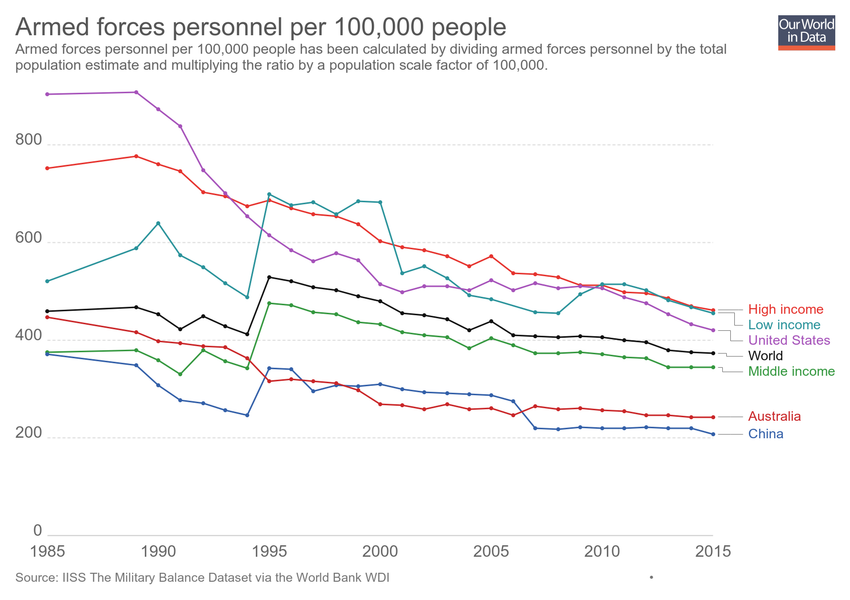
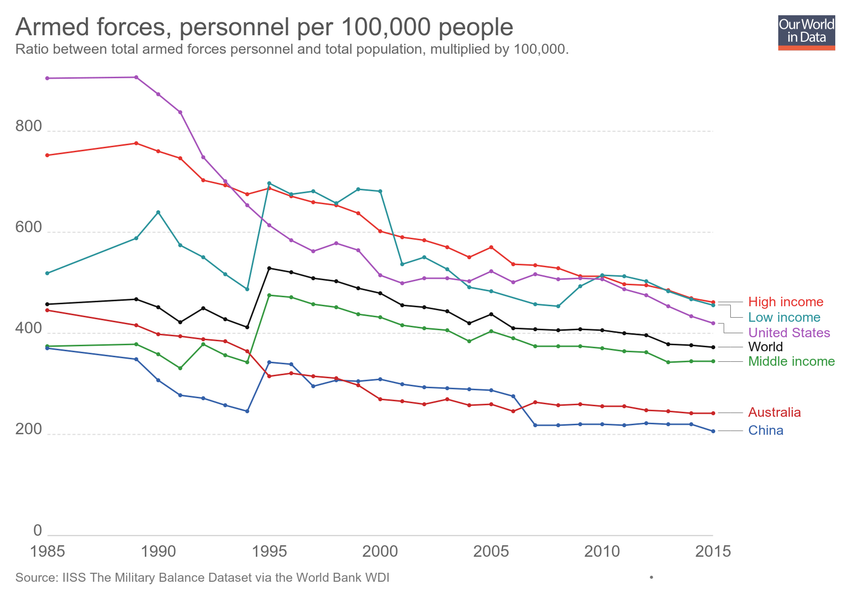
Updating chart armed-forces-personnel-per-100000-people

diff --git a/grapher/armed-forces-personnel-per-100000-people.html b/grapher/armed-forces-personnel-per-100000-people.html
@@ -1,4 +1,4 @@
-<!doctype html><html><head><meta name="viewport" content="width=device-width, initial-scale=1" /><title>Armed forces personnel per 100,000 people - Our World in Data</title><meta name="description" content="Armed forces personnel per 100,000 people has been calculated by dividing armed forces personnel by the total population estimate and multiplying the ratio by a population scale factor of 100,000." /><link rel="canonical" href="https://ourworldindata.org/grapher/armed-forces-personnel-per-100000-people" /><meta property="fb:app_id" content="1149943818390250" /><meta property="og:url" content="https://ourworldindata.org/grapher/armed-forces-personnel-per-100000-people" /><meta property="og:title" content="Armed forces personnel per 100,000 people" /><meta property="og:description" content="Armed forces personnel per 100,000 people has been calculated by dividing armed forces personnel by the total population estimate and multiplying the ratio by a population scale factor of 100,000." /><meta property="og:image" content="https://ourworldindata.org/grapher/exports/armed-forces-personnel-per-100000-people.png?v=4" /><meta property="og:image:width" content="850" /><meta property="og:image:height" content="600" /><meta property="og:site_name" content="Our World in Data" /><meta name="twitter:card" content="summary_large_image" /><meta name="twitter:site" content="@OurWorldInData" /><meta name="twitter:creator" content="@OurWorldInData" /><meta name="twitter:title" content="Armed forces personnel per 100,000 people" /><meta name="twitter:description" content="Armed forces personnel per 100,000 people has been calculated by dividing armed forces personnel by the total population estimate and multiplying the ratio by a population scale factor of 100,000." /><meta name="twitter:image" content="https://ourworldindata.org/grapher/exports/armed-forces-personnel-per-100000-people.png?v=4" /><style>
+<!doctype html><html><head><meta name="viewport" content="width=device-width, initial-scale=1" /><title>Armed forces, personnel per 100,000 people - Our World in Data</title><meta name="description" content="Ratio between total armed forces personnel and total population, multiplied by 100,000." /><link rel="canonical" href="https://ourworldindata.org/grapher/armed-forces-personnel-per-100000-people" /><meta property="fb:app_id" content="1149943818390250" /><meta property="og:url" content="https://ourworldindata.org/grapher/armed-forces-personnel-per-100000-people" /><meta property="og:title" content="Armed forces, personnel per 100,000 people" /><meta property="og:description" content="Ratio between total armed forces personnel and total population, multiplied by 100,000." /><meta property="og:image" content="https://ourworldindata.org/grapher/exports/armed-forces-personnel-per-100000-people.png?v=5" /><meta property="og:image:width" content="850" /><meta property="og:image:height" content="600" /><meta property="og:site_name" content="Our World in Data" /><meta name="twitter:card" content="summary_large_image" /><meta name="twitter:site" content="@OurWorldInData" /><meta name="twitter:creator" content="@OurWorldInData" /><meta name="twitter:title" content="Armed forces, personnel per 100,000 people" /><meta name="twitter:description" content="Ratio between total armed forces personnel and total population, multiplied by 100,000." /><meta name="twitter:image" content="https://ourworldindata.org/grapher/exports/armed-forces-personnel-per-100000-people.png?v=5" /><style>
         html, body {
             height: 100%;
             margin: 0;
@@ -20,8 +20,8 @@
         }
     </style><noscript><style>
                     figure { display: none !important; }
-                </style></noscript><link rel="stylesheet" href="https://ourworldindata.org/grapher/assets/commons.bundle.046264a5fd643542a8df.css" /><link rel="preload" href="/grapher/data/variables/97377.json?v=4" as="fetch" crossorigin /></head><body class="singleChart"><figure data-grapher-src="/grapher/armed-forces-personnel-per-100000-people"></figure><noscript id="fallback"><img src="/grapher/exports/armed-forces-personnel-per-100000-people.svg" /><p>Interactive visualization requires JavaScript</p></noscript><script src="https://cdn.polyfill.io/v2/polyfill.min.js?features=es6,fetch"></script><script src="https://ourworldindata.org/grapher/assets/commons.bundle.046264a5fd643542a8df.js"></script><script src="https://ourworldindata.org/grapher/assets/charts.bundle.dcf65b68eddaba4c6a58.js"></script><script>
-        var jsonConfig = {"id":2584,"map":{"projection":"World","targetYear":2015,"variableId":97377,"colorSchemeLabels":[],"colorSchemeValues":[],"colorSchemeMinValue":0,"customNumericColors":[],"customCategoryColors":{},"customCategoryLabels":{},"customHiddenCategories":{}},"tab":"chart","slug":"armed-forces-personnel-per-100000-people","type":"LineChart","title":"Armed forces personnel per 100,000 people","xAxis":{"scaleType":"linear"},"yAxis":{"min":0,"scaleType":"linear"},"version":4,"subtitle":"Armed forces personnel per 100,000 people has been calculated by dividing armed forces personnel by the total population estimate and multiplying the ratio by a population scale factor of 100,000.","hasMapTab":true,"stackMode":"absolute","dimensions":[{"display":{"unit":"per 100,000 people"},"property":"y","variableId":97377}],"hasChartTab":true,"isPublished":true,"selectedData":[{"index":0,"entityId":320},{"index":0,"entityId":326},{"index":0,"entityId":330},{"color":"#111","index":0,"entityId":355},{"index":0,"entityId":13},{"index":0,"entityId":171},{"index":0,"entityId":23}],"addCountryMode":"add-country"};
+                </style></noscript><link rel="stylesheet" href="https://ourworldindata.org/grapher/assets/commons.bundle.046264a5fd643542a8df.css" /><link rel="preload" href="/grapher/data/variables/97377.json?v=5" as="fetch" crossorigin /></head><body class="singleChart"><figure data-grapher-src="/grapher/armed-forces-personnel-per-100000-people"></figure><noscript id="fallback"><img src="/grapher/exports/armed-forces-personnel-per-100000-people.svg" /><p>Interactive visualization requires JavaScript</p></noscript><script src="https://cdn.polyfill.io/v2/polyfill.min.js?features=es6,fetch"></script><script src="https://ourworldindata.org/grapher/assets/commons.bundle.046264a5fd643542a8df.js"></script><script src="https://ourworldindata.org/grapher/assets/charts.bundle.dcf65b68eddaba4c6a58.js"></script><script>
+        var jsonConfig = {"id":2584,"map":{"projection":"World","targetYear":2015,"variableId":97377,"colorSchemeLabels":[],"colorSchemeValues":[],"colorSchemeMinValue":0,"customNumericColors":[],"customCategoryColors":{},"customCategoryLabels":{},"customHiddenCategories":{}},"tab":"chart","slug":"armed-forces-personnel-per-100000-people","type":"LineChart","title":"Armed forces, personnel per 100,000 people","xAxis":{"scaleType":"linear"},"yAxis":{"min":0,"scaleType":"linear"},"version":5,"subtitle":"Ratio between total armed forces personnel and total population, multiplied by 100,000.","hasMapTab":true,"stackMode":"absolute","dimensions":[{"display":{"unit":"per 100,000 people"},"property":"y","variableId":97377}],"hasChartTab":true,"isPublished":true,"selectedData":[{"index":0,"entityId":320},{"index":0,"entityId":326},{"index":0,"entityId":330},{"color":"#111","index":0,"entityId":355},{"index":0,"entityId":13},{"index":0,"entityId":171},{"index":0,"entityId":23}],"addCountryMode":"add-country"};
         var figure = document.getElementsByTagName("figure")[0];
         try {
             window.App = {};
